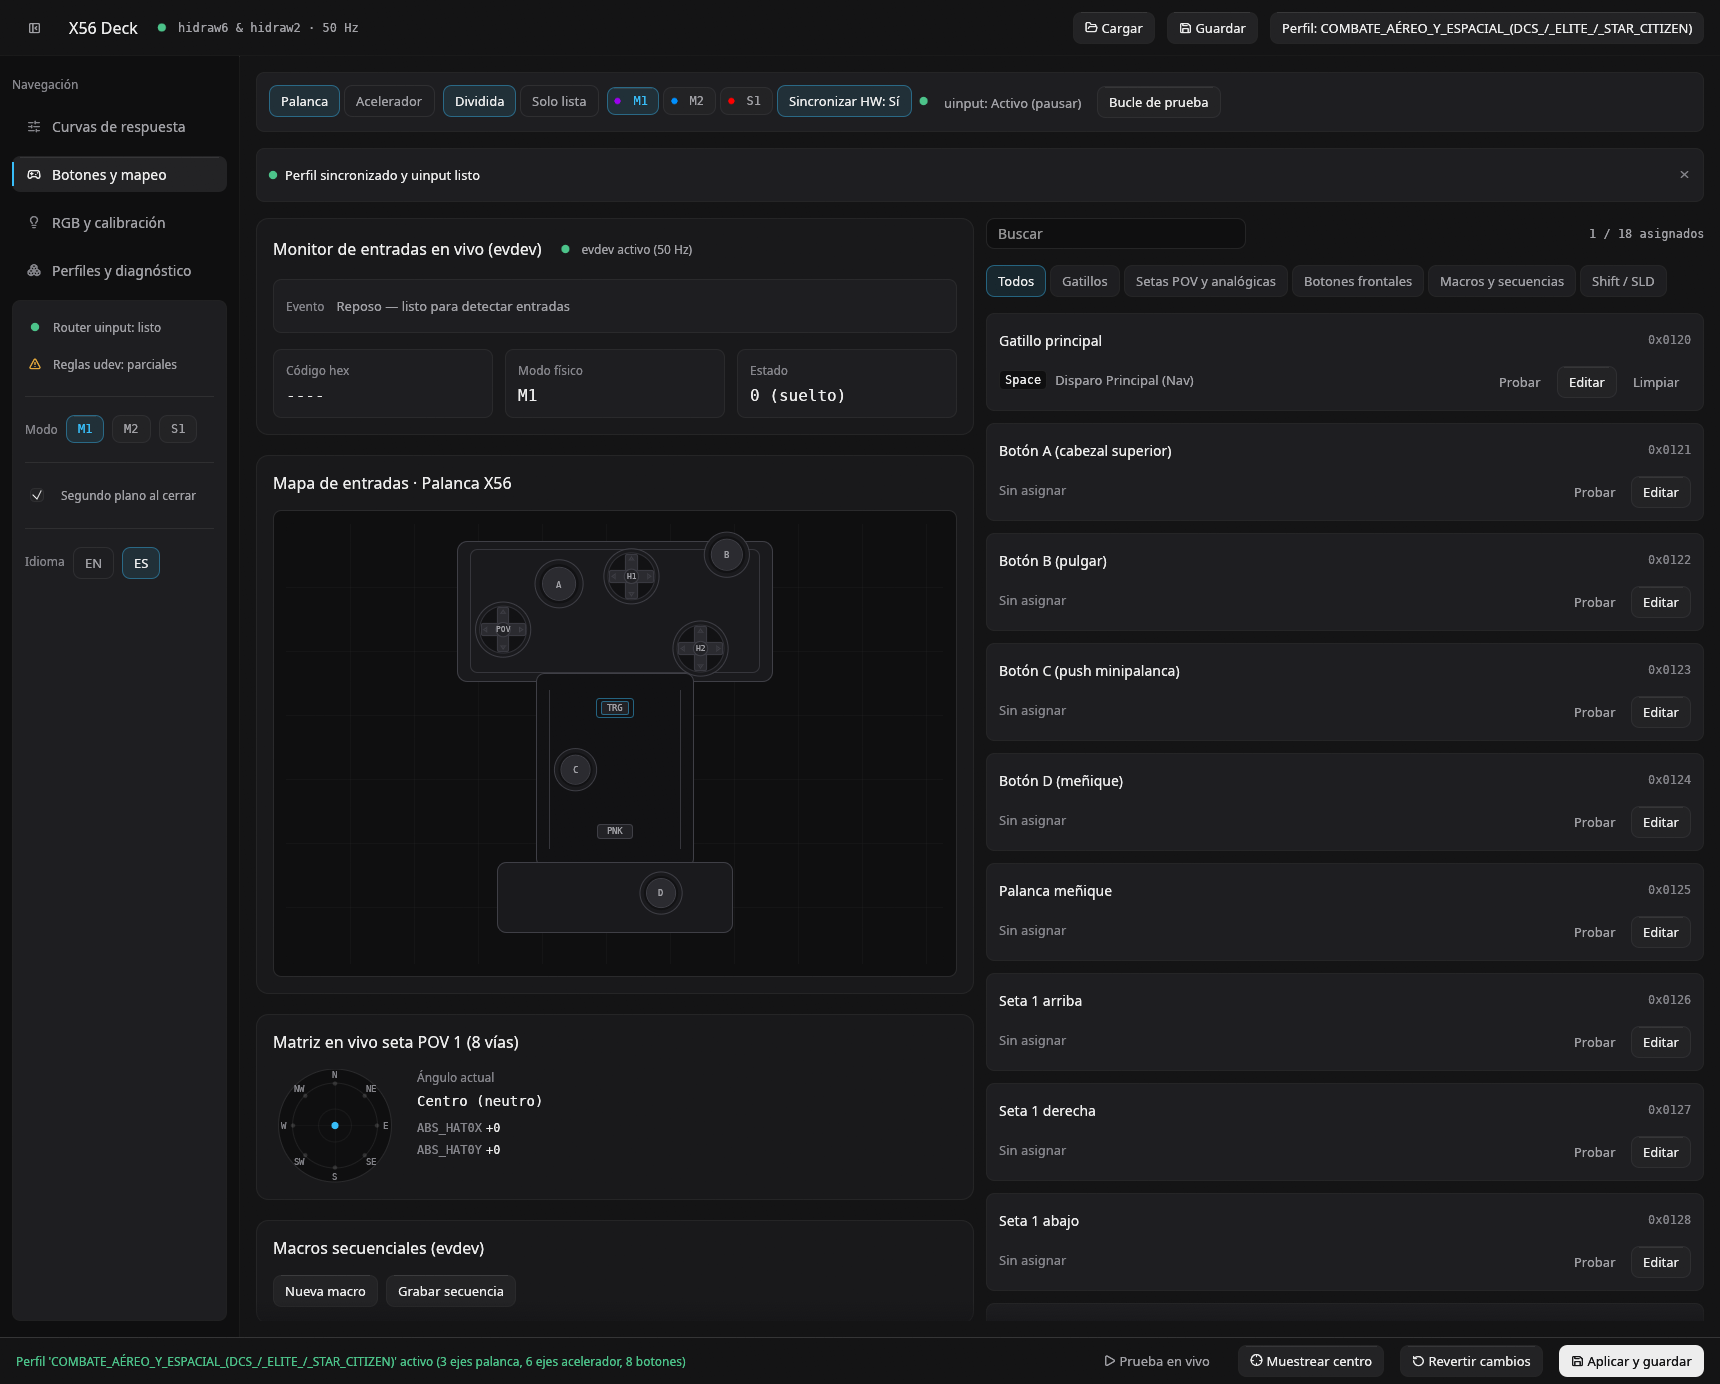
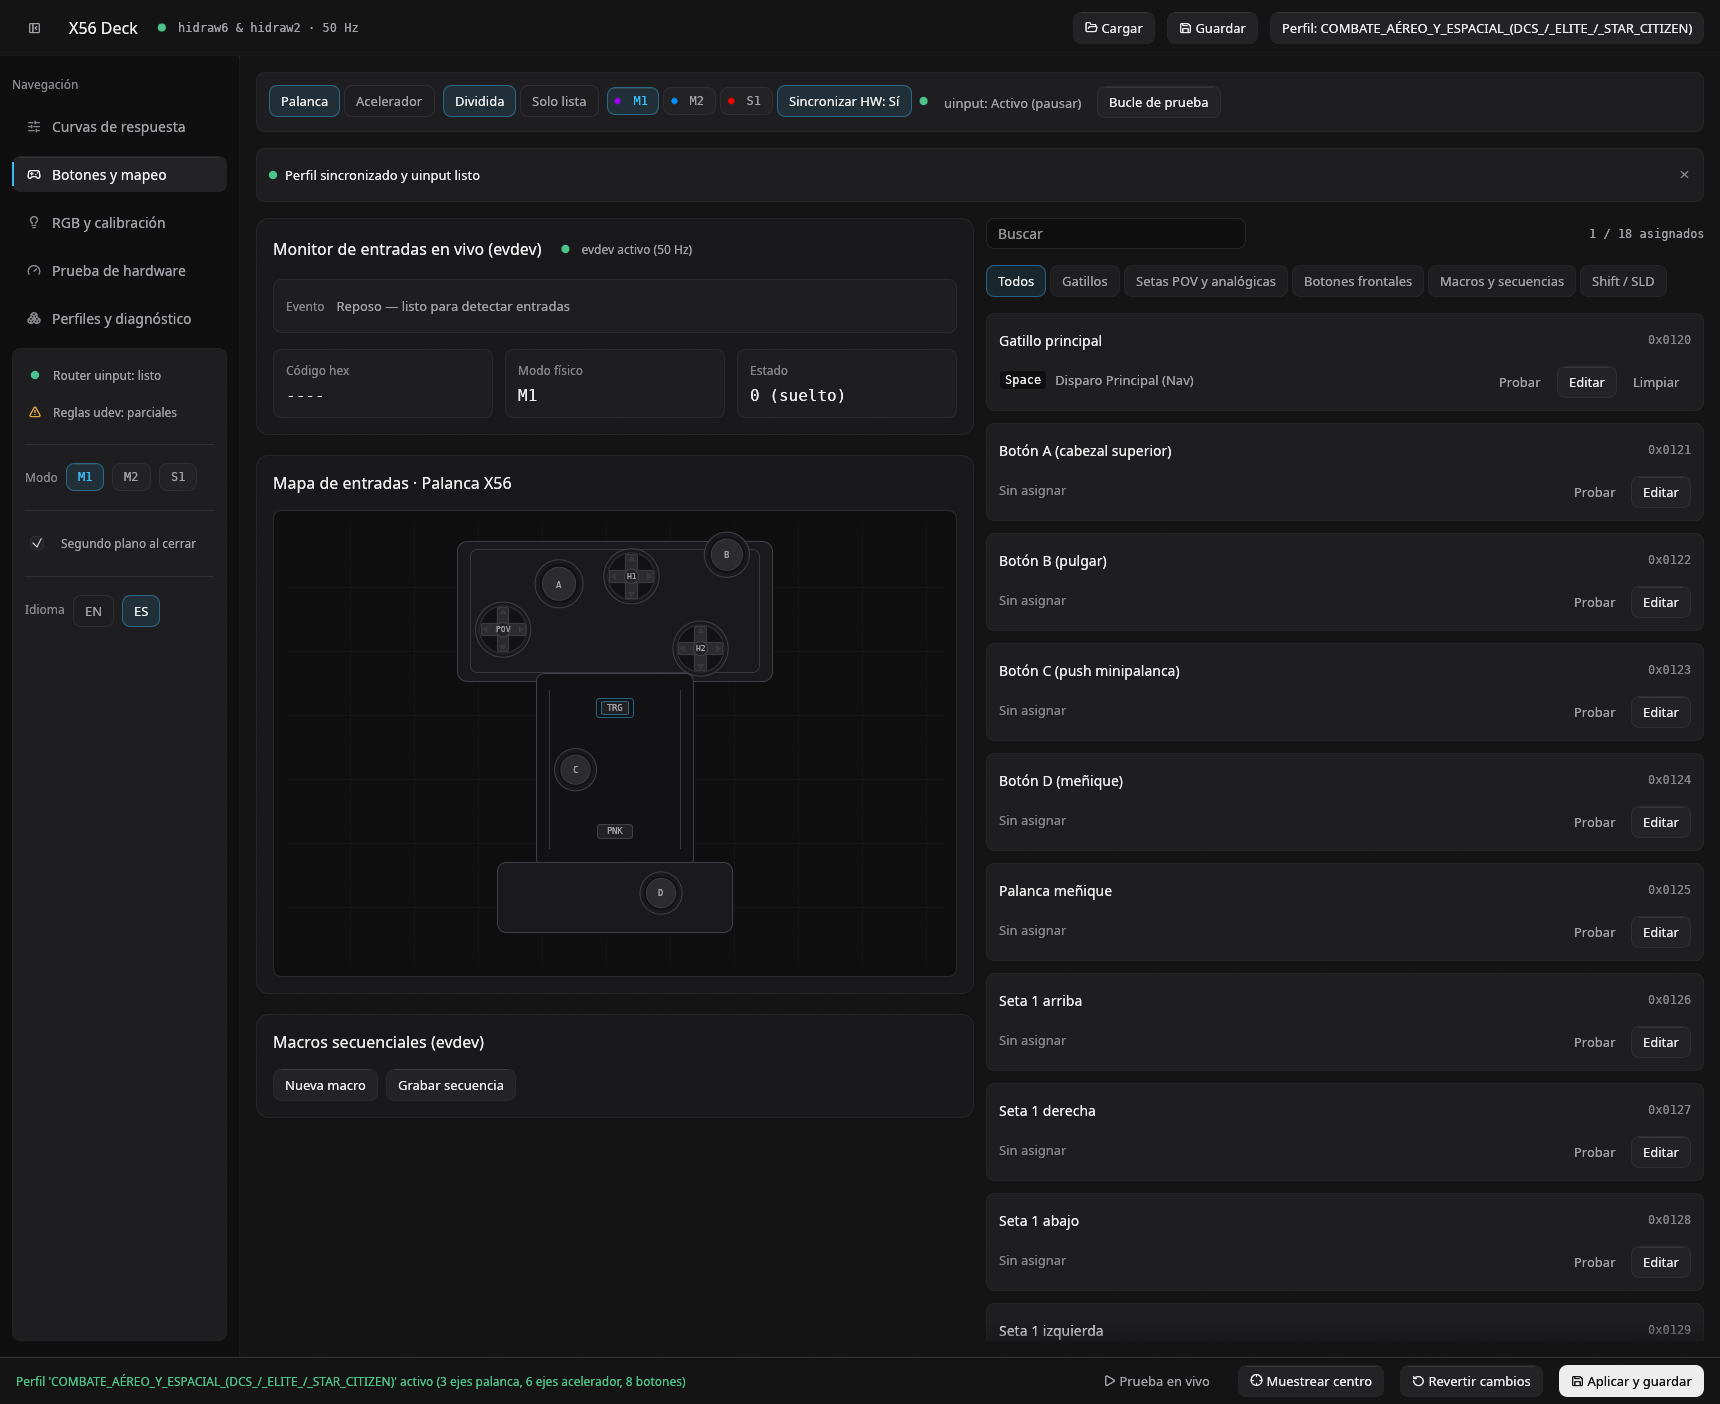
fix(gui,docs): fix button wrapping in narrow layouts and update README screenshots

diff --git a/crates/x56-gui/src/theme.rs b/crates/x56-gui/src/theme.rs
@@ -383,7 +383,8 @@ pub fn dock_frame() -> Frame {
 
 /// Primary off-white CTA button (`#ededed` bg, `#ffffff` hover, `#141415` text, `r=8`, `min_h=32`).
 pub fn primary_button(ui: &mut Ui, text: &str) -> egui::Response {
-    ui.scope(|ui| {
+    let prev_widgets = ui.visuals().widgets.clone();
+    {
         let visuals = ui.visuals_mut();
         visuals.widgets.inactive.weak_bg_fill = COLOR_CTA_BG;
         visuals.widgets.inactive.bg_fill = COLOR_CTA_BG;
@@ -397,42 +398,43 @@ pub fn primary_button(ui: &mut Ui, text: &str) -> egui::Response {
         visuals.widgets.active.bg_fill = Color32::from_rgb(0xd4, 0xd4, 0xd8);
         visuals.widgets.active.bg_stroke = Stroke::NONE;
         visuals.widgets.active.fg_stroke = Stroke::new(1.0, COLOR_CTA_TEXT);
-
-        let rich = RichText::new(text).color(COLOR_CTA_TEXT).size(FONT_SMALL);
-        ui.add(
-            egui::Button::new(rich)
-                .corner_radius(CornerRadius::same(RADIUS_CONTROL))
-                .min_size(Vec2::new(0.0, 32.0)),
-        )
-    })
-    .inner
+    }
+    let rich = RichText::new(text).color(COLOR_CTA_TEXT).size(FONT_SMALL);
+    let resp = ui.add(
+        egui::Button::new(rich)
+            .wrap_mode(egui::TextWrapMode::Extend)
+            .corner_radius(CornerRadius::same(RADIUS_CONTROL))
+            .min_size(Vec2::new(0.0, 32.0)),
+    );
+    ui.visuals_mut().widgets = prev_widgets;
+    resp
 }
 
 /// Secondary raised surface button (`#232325`, 1px hairline, `#ededed` text, `r=8`, `min_h=32`).
 pub fn secondary_button(ui: &mut Ui, text: &str) -> egui::Response {
-    let resp = ui
-        .scope(|ui| {
-            let visuals = ui.visuals_mut();
-            visuals.widgets.inactive.weak_bg_fill = COLOR_SURFACE_HIGH;
-            visuals.widgets.inactive.bg_fill = COLOR_SURFACE_HIGH;
-            visuals.widgets.inactive.bg_stroke = Stroke::new(1.0, COLOR_BORDER_HAIRLINE);
-            visuals.widgets.hovered.weak_bg_fill = COLOR_SURFACE_HIGHEST;
-            visuals.widgets.hovered.bg_fill = COLOR_SURFACE_HIGHEST;
-            visuals.widgets.hovered.bg_stroke = Stroke::new(1.0, COLOR_BORDER_STRONG);
-            visuals.widgets.active.weak_bg_fill = COLOR_SURFACE_BRIGHT;
-            visuals.widgets.active.bg_fill = COLOR_SURFACE_BRIGHT;
-            visuals.widgets.active.bg_stroke = Stroke::new(1.0, COLOR_BORDER_STRONG);
-
-            let rich = RichText::new(text)
-                .color(COLOR_TEXT_PRIMARY)
-                .size(FONT_SMALL);
-            ui.add(
-                egui::Button::new(rich)
-                    .corner_radius(CornerRadius::same(RADIUS_CONTROL))
-                    .min_size(Vec2::new(0.0, 32.0)),
-            )
-        })
-        .inner;
+    let prev_widgets = ui.visuals().widgets.clone();
+    {
+        let visuals = ui.visuals_mut();
+        visuals.widgets.inactive.weak_bg_fill = COLOR_SURFACE_HIGH;
+        visuals.widgets.inactive.bg_fill = COLOR_SURFACE_HIGH;
+        visuals.widgets.inactive.bg_stroke = Stroke::new(1.0, COLOR_BORDER_HAIRLINE);
+        visuals.widgets.hovered.weak_bg_fill = COLOR_SURFACE_HIGHEST;
+        visuals.widgets.hovered.bg_fill = COLOR_SURFACE_HIGHEST;
+        visuals.widgets.hovered.bg_stroke = Stroke::new(1.0, COLOR_BORDER_STRONG);
+        visuals.widgets.active.weak_bg_fill = COLOR_SURFACE_BRIGHT;
+        visuals.widgets.active.bg_fill = COLOR_SURFACE_BRIGHT;
+        visuals.widgets.active.bg_stroke = Stroke::new(1.0, COLOR_BORDER_STRONG);
+    }
+    let rich = RichText::new(text)
+        .color(COLOR_TEXT_PRIMARY)
+        .size(FONT_SMALL);
+    let resp = ui.add(
+        egui::Button::new(rich)
+            .wrap_mode(egui::TextWrapMode::Extend)
+            .corner_radius(CornerRadius::same(RADIUS_CONTROL))
+            .min_size(Vec2::new(0.0, 32.0)),
+    );
+    ui.visuals_mut().widgets = prev_widgets;
 
     if ui.is_rect_visible(resp.rect) {
         let r = resp.rect;
@@ -447,7 +449,8 @@ pub fn secondary_button(ui: &mut Ui, text: &str) -> egui::Response {
 
 /// Quiet transparent ghost button (`#a1a1a6` text, `#232325` hover fill, `r=8`, `min_h=32`).
 pub fn ghost_button(ui: &mut Ui, text: &str) -> egui::Response {
-    ui.scope(|ui| {
+    let prev_widgets = ui.visuals().widgets.clone();
+    {
         let visuals = ui.visuals_mut();
         visuals.widgets.inactive.weak_bg_fill = Color32::TRANSPARENT;
         visuals.widgets.inactive.bg_fill = Color32::TRANSPARENT;
@@ -458,17 +461,18 @@ pub fn ghost_button(ui: &mut Ui, text: &str) -> egui::Response {
         visuals.widgets.active.weak_bg_fill = COLOR_SURFACE_HIGHEST;
         visuals.widgets.active.bg_fill = COLOR_SURFACE_HIGHEST;
         visuals.widgets.active.bg_stroke = Stroke::new(1.0, COLOR_BORDER_HAIRLINE);
-
-        let rich = RichText::new(text)
-            .color(COLOR_TEXT_SECONDARY)
-            .size(FONT_SMALL);
-        ui.add(
-            egui::Button::new(rich)
-                .corner_radius(CornerRadius::same(RADIUS_CONTROL))
-                .min_size(Vec2::new(0.0, 32.0)),
-        )
-    })
-    .inner
+    }
+    let rich = RichText::new(text)
+        .color(COLOR_TEXT_SECONDARY)
+        .size(FONT_SMALL);
+    let resp = ui.add(
+        egui::Button::new(rich)
+            .wrap_mode(egui::TextWrapMode::Extend)
+            .corner_radius(CornerRadius::same(RADIUS_CONTROL))
+            .min_size(Vec2::new(0.0, 32.0)),
+    );
+    ui.visuals_mut().widgets = prev_widgets;
+    resp
 }
 
 /// Destructive action button (`#e5484d` semantic red text and subtle tint, `r=8`, `min_h=32`).
@@ -478,7 +482,8 @@ pub fn danger_button(ui: &mut Ui, text: &str) -> egui::Response {
     let active_bg = Color32::from_rgba_unmultiplied_const(229, 72, 77, 68);
     let border = Color32::from_rgba_unmultiplied_const(229, 72, 77, 92);
 
-    ui.scope(|ui| {
+    let prev_widgets = ui.visuals().widgets.clone();
+    {
         let visuals = ui.visuals_mut();
         visuals.widgets.inactive.weak_bg_fill = rest_bg;
         visuals.widgets.inactive.bg_fill = rest_bg;
@@ -489,20 +494,22 @@ pub fn danger_button(ui: &mut Ui, text: &str) -> egui::Response {
         visuals.widgets.active.weak_bg_fill = active_bg;
         visuals.widgets.active.bg_fill = active_bg;
         visuals.widgets.active.bg_stroke = Stroke::new(1.0, COLOR_NEGATIVE);
-
-        let rich = RichText::new(text).color(COLOR_NEGATIVE).size(FONT_SMALL);
-        ui.add(
-            egui::Button::new(rich)
-                .corner_radius(CornerRadius::same(RADIUS_CONTROL))
-                .min_size(Vec2::new(0.0, 32.0)),
-        )
-    })
-    .inner
+    }
+    let rich = RichText::new(text).color(COLOR_NEGATIVE).size(FONT_SMALL);
+    let resp = ui.add(
+        egui::Button::new(rich)
+            .wrap_mode(egui::TextWrapMode::Extend)
+            .corner_radius(CornerRadius::same(RADIUS_CONTROL))
+            .min_size(Vec2::new(0.0, 32.0)),
+    );
+    ui.visuals_mut().widgets = prev_widgets;
+    resp
 }
 
 /// Segmented selector button (`r=8`, `min_h=32`, single Instrument Cyan border when selected).
 pub fn segmented_button(ui: &mut Ui, text: &str, selected: bool) -> egui::Response {
-    ui.scope(|ui| {
+    let prev_widgets = ui.visuals().widgets.clone();
+    {
         let visuals = ui.visuals_mut();
         if selected {
             visuals.widgets.inactive.weak_bg_fill = COLOR_ACCENT_SOFT;
@@ -519,20 +526,21 @@ pub fn segmented_button(ui: &mut Ui, text: &str, selected: bool) -> egui::Respon
             visuals.widgets.hovered.bg_fill = COLOR_SURFACE_HIGH;
             visuals.widgets.hovered.bg_stroke = Stroke::new(1.0, COLOR_BORDER_STRONG);
         }
-
-        let text_col = if selected {
-            COLOR_TEXT_PRIMARY
-        } else {
-            COLOR_TEXT_SECONDARY
-        };
-        let rich = RichText::new(text).color(text_col).size(FONT_SMALL);
-        ui.add(
-            egui::Button::new(rich)
-                .corner_radius(CornerRadius::same(RADIUS_CONTROL))
-                .min_size(Vec2::new(0.0, 32.0)),
-        )
-    })
-    .inner
+    }
+    let text_col = if selected {
+        COLOR_TEXT_PRIMARY
+    } else {
+        COLOR_TEXT_SECONDARY
+    };
+    let rich = RichText::new(text).color(text_col).size(FONT_SMALL);
+    let resp = ui.add(
+        egui::Button::new(rich)
+            .wrap_mode(egui::TextWrapMode::Extend)
+            .corner_radius(CornerRadius::same(RADIUS_CONTROL))
+            .min_size(Vec2::new(0.0, 32.0)),
+    );
+    ui.visuals_mut().widgets = prev_widgets;
+    resp
 }
 
 /// Recessed keycap well (`#0f0f10`, 1px hairline, `r=4`, `12px` mono `#ededed`).
@@ -567,41 +575,41 @@ pub fn keycap(ui: &mut Ui, text: &str) {
 
 /// Tactile selector detent for M1 / M2 / S1 mode switches (`r=8`, `min_h=28`).
 pub fn mode_detent(ui: &mut Ui, label: &str, selected: bool) -> egui::Response {
-    let resp = ui
-        .scope(|ui| {
-            let visuals = ui.visuals_mut();
-            if selected {
-                visuals.widgets.inactive.weak_bg_fill = COLOR_ACCENT_SOFT;
-                visuals.widgets.inactive.bg_fill = COLOR_ACCENT_SOFT;
-                visuals.widgets.inactive.bg_stroke = Stroke::new(1.0, COLOR_ACCENT_BORDER);
-                visuals.widgets.hovered.weak_bg_fill = COLOR_ACCENT_SOFT;
-                visuals.widgets.hovered.bg_fill = COLOR_ACCENT_SOFT;
-                visuals.widgets.hovered.bg_stroke = Stroke::new(1.0, COLOR_ACCENT);
-            } else {
-                visuals.widgets.inactive.weak_bg_fill = COLOR_SURFACE_HIGH;
-                visuals.widgets.inactive.bg_fill = COLOR_SURFACE_HIGH;
-                visuals.widgets.inactive.bg_stroke = Stroke::new(1.0, COLOR_BORDER_HAIRLINE);
-                visuals.widgets.hovered.weak_bg_fill = COLOR_SURFACE_HIGHEST;
-                visuals.widgets.hovered.bg_fill = COLOR_SURFACE_HIGHEST;
-                visuals.widgets.hovered.bg_stroke = Stroke::new(1.0, COLOR_BORDER_STRONG);
-            }
-
-            let text_col = if selected {
-                COLOR_ACCENT
-            } else {
-                COLOR_TEXT_SECONDARY
-            };
-            let rich = RichText::new(label)
-                .color(text_col)
-                .size(FONT_META)
-                .monospace();
-            ui.add(
-                egui::Button::new(rich)
-                    .corner_radius(CornerRadius::same(RADIUS_CONTROL))
-                    .min_size(Vec2::new(0.0, 28.0)),
-            )
-        })
-        .inner;
+    let prev_widgets = ui.visuals().widgets.clone();
+    {
+        let visuals = ui.visuals_mut();
+        if selected {
+            visuals.widgets.inactive.weak_bg_fill = COLOR_ACCENT_SOFT;
+            visuals.widgets.inactive.bg_fill = COLOR_ACCENT_SOFT;
+            visuals.widgets.inactive.bg_stroke = Stroke::new(1.0, COLOR_ACCENT_BORDER);
+            visuals.widgets.hovered.weak_bg_fill = COLOR_ACCENT_SOFT;
+            visuals.widgets.hovered.bg_fill = COLOR_ACCENT_SOFT;
+            visuals.widgets.hovered.bg_stroke = Stroke::new(1.0, COLOR_ACCENT);
+        } else {
+            visuals.widgets.inactive.weak_bg_fill = COLOR_SURFACE_HIGH;
+            visuals.widgets.inactive.bg_fill = COLOR_SURFACE_HIGH;
+            visuals.widgets.inactive.bg_stroke = Stroke::new(1.0, COLOR_BORDER_HAIRLINE);
+            visuals.widgets.hovered.weak_bg_fill = COLOR_SURFACE_HIGHEST;
+            visuals.widgets.hovered.bg_fill = COLOR_SURFACE_HIGHEST;
+            visuals.widgets.hovered.bg_stroke = Stroke::new(1.0, COLOR_BORDER_STRONG);
+        }
+    }
+    let text_col = if selected {
+        COLOR_ACCENT
+    } else {
+        COLOR_TEXT_SECONDARY
+    };
+    let rich = RichText::new(label)
+        .color(text_col)
+        .size(FONT_META)
+        .monospace();
+    let resp = ui.add(
+        egui::Button::new(rich)
+            .wrap_mode(egui::TextWrapMode::Extend)
+            .corner_radius(CornerRadius::same(RADIUS_CONTROL))
+            .min_size(Vec2::new(0.0, 28.0)),
+    );
+    ui.visuals_mut().widgets = prev_widgets;
 
     if selected && ui.is_rect_visible(resp.rect) {
         let r = resp.rect;

diff --git a/crates/x56-gui/src/tabs/programming.rs b/crates/x56-gui/src/tabs/programming.rs
@@ -730,15 +730,12 @@ impl ProgrammingTab {
                         x56_core::t!("prog-router-uinput"),
                         x56_core::t!("prog-router-offline")
                     );
-                    ui.horizontal(|ui| {
-                        theme::status_dot(ui, COLOR_NEGATIVE, 8.0);
-                        ui.label(
-                            RichText::new(router_text)
-                                .color(COLOR_TEXT_MUTED)
-                                .size(FONT_META),
-                        );
-                    })
-                    .response
+                    theme::status_dot(ui, COLOR_NEGATIVE, 8.0);
+                    ui.label(
+                        RichText::new(router_text)
+                            .color(COLOR_TEXT_MUTED)
+                            .size(FONT_META),
+                    )
                     .on_hover_text(x56_core::t!("sidebar-uinput-offline-tooltip"));
                 } else {
                     let is_active = monitor.is_active();
@@ -752,24 +749,22 @@ impl ProgrammingTab {
                     } else {
                         x56_core::t!("prog-uinput-paused-short")
                     };
-                    ui.horizontal(|ui| {
-                        theme::status_dot(ui, dot_col, 8.0);
-                        if theme::ghost_button(ui, &toggle_lbl)
-                            .on_hover_text(x56_core::t!("prog-uinput-toggle-tooltip"))
-                            .clicked()
-                        {
-                            if is_active {
-                                monitor.set_active(false);
-                                self.status_message =
-                                    Some((x56_core::t!("prog-uinput-paused-msg"), false));
-                            } else {
-                                monitor.set_profile(self.profile.clone());
-                                monitor.set_active(true);
-                                self.status_message =
-                                    Some((x56_core::t!("prog-uinput-resumed-msg"), false));
-                            }
+                    theme::status_dot(ui, dot_col, 8.0);
+                    if theme::ghost_button(ui, &toggle_lbl)
+                        .on_hover_text(x56_core::t!("prog-uinput-toggle-tooltip"))
+                        .clicked()
+                    {
+                        if is_active {
+                            monitor.set_active(false);
+                            self.status_message =
+                                Some((x56_core::t!("prog-uinput-paused-msg"), false));
+                        } else {
+                            monitor.set_profile(self.profile.clone());
+                            monitor.set_active(true);
+                            self.status_message =
+                                Some((x56_core::t!("prog-uinput-resumed-msg"), false));
                         }
-                    });
+                    }
                 }
 
                 // Test loop modal trigger

diff --git a/README.md b/README.md
@@ -14,7 +14,7 @@ The suite provides dual interface binaries:
 Specifically engineered to operate on Linux **without root privileges (`sudo`)** and **without detaching the kernel joystick driver (`usbhid`/`joydev`/`evdev`)**, ensuring that flight and space simulators (*DCS World, X-Plane, Microsoft Flight Simulator, Star Citizen, Elite Dangerous, FlightGear*) continue receiving uninterrupted axis and button inputs while adjusting configuration live.
 
 ![X56 HOTAS Deck — Avionics Vector Control Center](doc/screenshots/01-curves-editor.png)
-*X56 HOTAS Deck (`x56-deck`) — Response Curve Editor, Live 2D Gimbal Monitor, and Physical Spring Selector*
+*X56 HOTAS Deck (`x56-deck`) — Response Curve Editor, Live Axis Telemetry, and Physical Spring Selector*
 
 ---
 
@@ -585,6 +585,17 @@ Directly inspired by **Section 8 of the Official Logitech G X56 HOTAS User Manua
 ### 6. TOML Profile Management
 - Direct top-bar access to `Save TOML Profile` or `Load TOML Profile`.
 - Allows backing up complete profiles (axes, curves, RGB lighting, and full 3-mode button bindings) and sharing them across different flight simulators (*DCS*, *MSFS*, *X-Plane*, *Star Citizen*).
+
+### 7. Hardware Test Bench (`Prueba de hardware`)
+- Simultaneous side-by-side live verification of **Throttle Quadrant** (left) and **Flight Stick** (right), with filter modes (`Both`, `Throttle`, `Stick`) and session reset.
+- Interactive 2D input maps tracking all 33 throttle controls and 18 stick controls with pressed highlights and verified-session checklist markers.
+- Dedicated live axis instruments:
+  - **Main Gimbal + Integrated Twist Z (`X / Y / Z`)** and independent **2D Ministick Gimbals** (`C` push and Throttle Slew mini-gimbal).
+  - **Graduated Vertical Dual Throttle Bars** (`LEFT` / `RIGHT`).
+  - **4 Circular 270° Rotary Dial Gauges** (`RTY 1 (F)`, `RTY 2 (G)`, `RTY 3`, `RTY 4`) with push illumination.
+
+![Hardware Test Bench — Live Input Maps, Gimbals, Throttles & Rotaries](doc/screenshots/06-hardware-test.png)
+*Hardware Test Bench (`Prueba de hardware`) — Simultaneous Throttle & Stick Maps, Gimbals, Dual Throttle Bars, and Circular Rotary Gauges*
 
 ---
 
